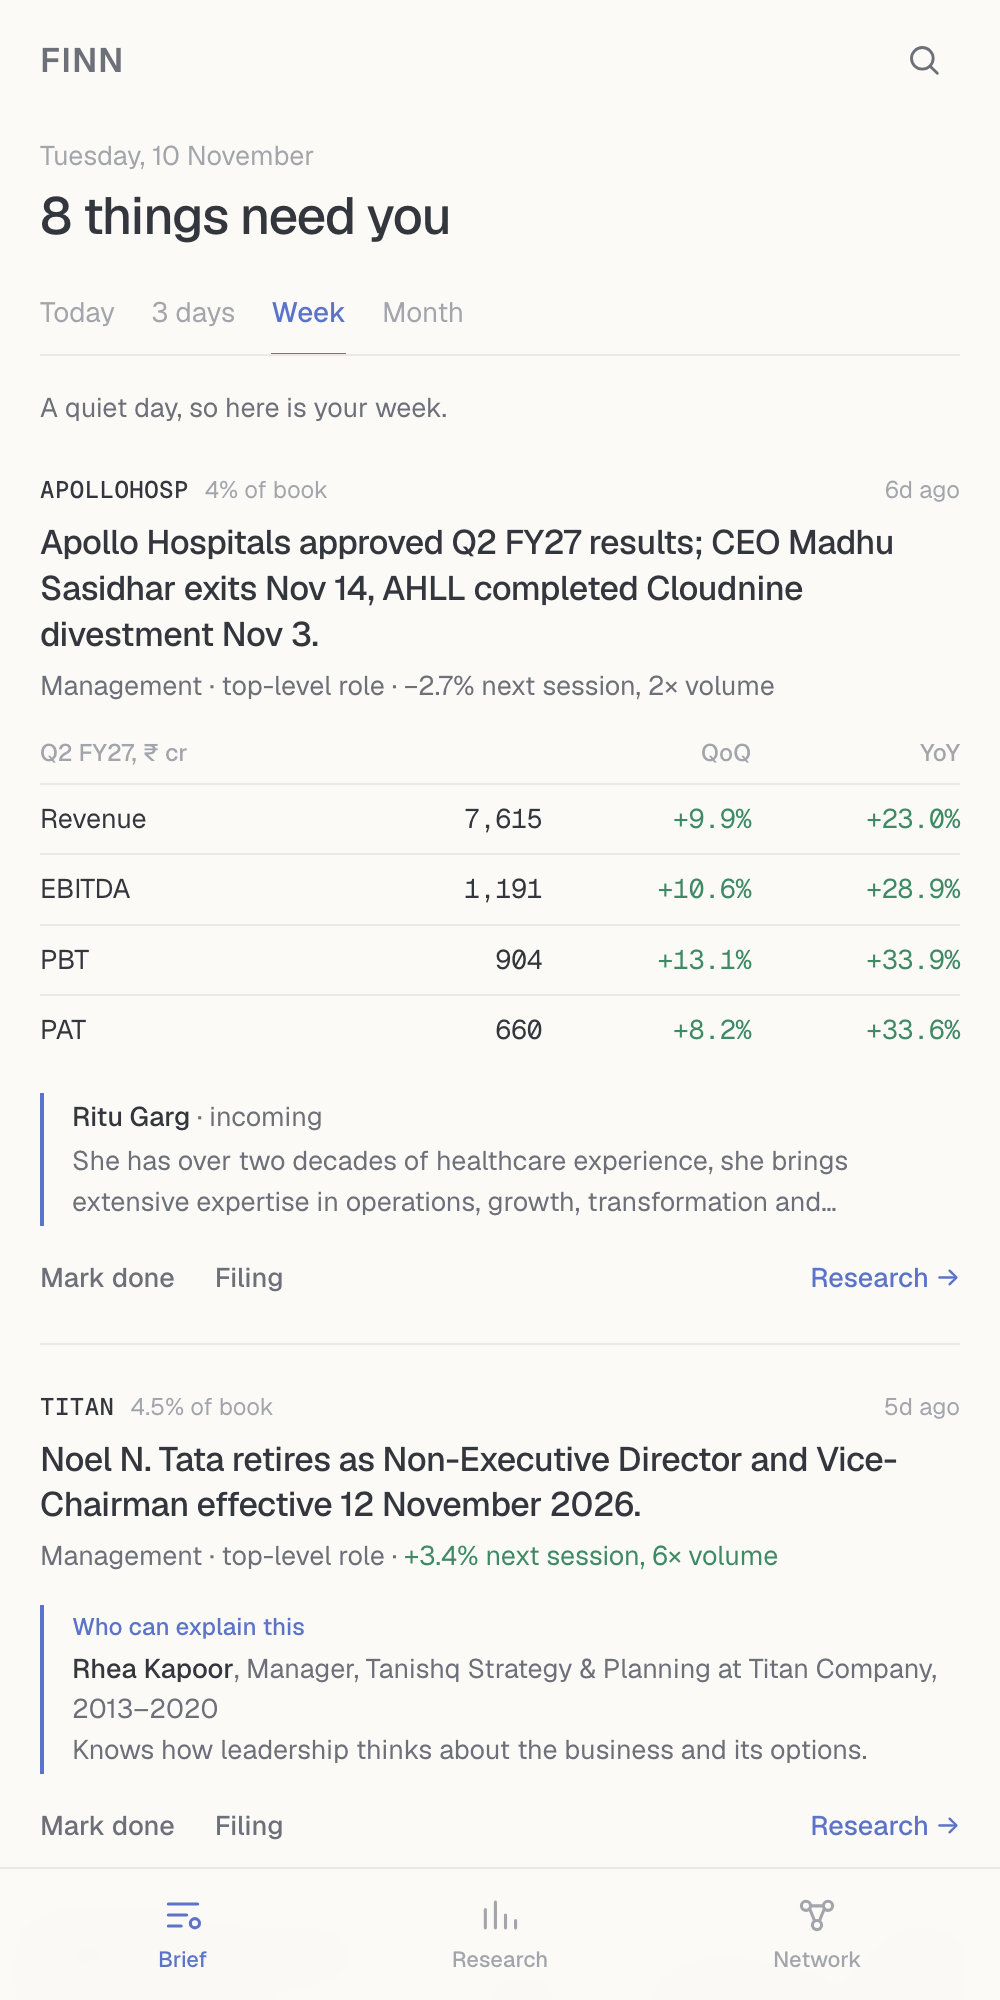
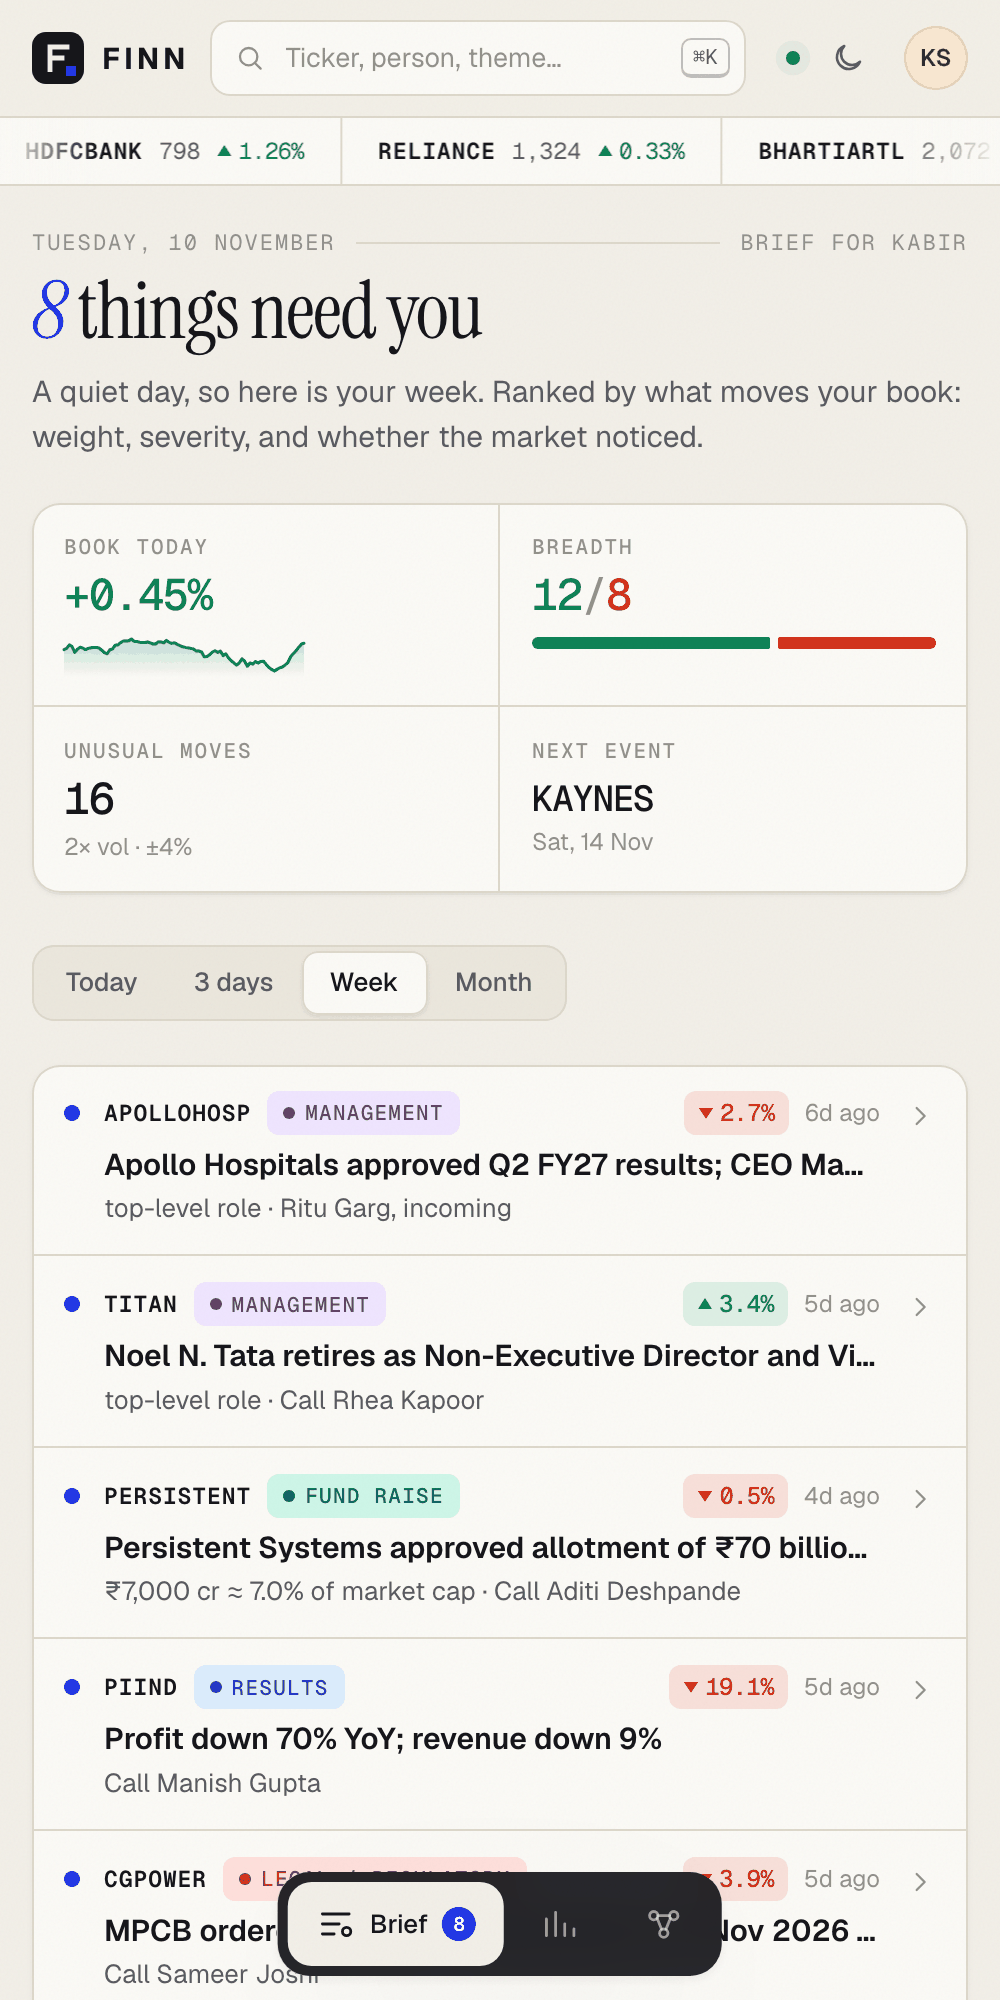
Refresh screenshots and update README for the new pages
- Retake brief, management, promises and network shots from the current app
- Add story, friends-to-call, portfolio and desktop shots
- Tour, push, network and privacy sections cover story pages, friends to call,
  the portfolio page (friends, journey, proof-backed edits) and About
- Test count 31 → 38; repo map lists the frontend screens

diff --git a/README.md b/README.md
@@ -12,10 +12,18 @@ named in this month's filings.
 - **Writeup for the covering email:** [docs/covering-note.md](docs/covering-note.md)
 
 <p align="center">
-  <img src="docs/screens/brief.png" width="24%" />
-  <img src="docs/screens/management.png" width="24%" />
-  <img src="docs/screens/promises.png" width="24%" />
-  <img src="docs/screens/network.png" width="24%" />
+  <img src="docs/screens/brief.png" width="24%" alt="Brief" />
+  <img src="docs/screens/story.png" width="24%" alt="A story with its price chart" />
+  <img src="docs/screens/promises.png" width="24%" alt="Promised vs delivered" />
+  <img src="docs/screens/friends.png" width="24%" alt="Friends to call" />
+</p>
+<p align="center">
+  <img src="docs/screens/management.png" width="24%" alt="Your way in to a new CEO" />
+  <img src="docs/screens/network.png" width="24%" alt="Network" />
+  <img src="docs/screens/portfolio.png" width="24%" alt="Portfolio" />
+</p>
+<p align="center">
+  <img src="docs/screens/desktop.png" width="98%" alt="Desktop: alerts and friends to call in the sidebar" />
 </p>
 
 ---
@@ -24,12 +32,15 @@ named in this month's filings.
 
 1. **Brief.** The last day was quiet, so FINN opens on the week: "8 things need you." Cards are ranked by materiality × position size, and each one shows how the stock reacted.
 2. **HDFC Bank: new MD & CEO** (switch to *Month*, or tap the first item under *Network → Noticed*). FINN reads the filing, attaches a verified profile of Anup Bagchi, and finds your way in: *Vikram Rao, your IIT batchmate, was at ICICI Securities 2011–16 while Bagchi ran it.*
-3. **PI Industries: results.** Revenue, EBITDA, PBT and PAT, QoQ and YoY, from the filing. The card also notes that *other income is 35% of PBT* and that the stock fell 19% on 30× volume the next session.
+3. **PI Industries: results.** Tap the card and it opens as its own page, led by an interactive price chart (hover or drag to read a day, 1M/3M/All, volume bars, the filing day marked). Below it: Revenue, EBITDA, PBT and PAT, QoQ and YoY, from the filing, a note that *other income is 35% of PBT*, and the −19% next session on 30× volume. *Back* returns you to the same place in the Brief.
 4. **CG Power: plant closure order.** *Call Sameer Joshi: he ran the Waluj plant 2013–20.* He's ranked first because the event names his site.
 5. **Research → Kaynes → Promised vs delivered.** Management credibility: **low**. They promised ≥ ₹4,000 cr FY26 revenue and delivered ₹3,626 cr; they promised positive operating cash and posted −₹600 cr. Every row links to the transcript page it came from.
 6. **Network.** What it noticed: paths to new directors, reasons to reconnect, a Kaynes trading-window caution, and themes you own with thin coverage.
 7. **Ask** (search icon, or `/`): "way in to Anup Bagchi", "who knows rural lending?", "who can explain Polycab?", or any ticker. Voice works on supported browsers.
 8. **Alerts** (tap the thresholds next to *Unusual moves* on the Brief). Drag the volume/price thresholds and watch the noise check update: how many alerts you would have had over the last 90 sessions.
+9. **Friends to call** (desktop sidebar, or *+N more* for the full list). Friends whose current or former employer just crossed your alert rules or filed something material: *Manish Gupta, ex-PI Industries: profit down 70%*. Current employees are tagged **insider**.
+10. **Portfolio** (tap your name, top right). Returns, sector mix and holdings flagged with open stories and alerts; **Friends** ranked by how often you actually talk, with a *due a call* flag when someone has gone quiet for longer than usual; your **Journey** of firms with the friends you overlapped with at each; and **Edit profile**, where every change needs a proof document.
+11. **About** (tap the FINN logo): the features on one page, with links into each.
 
 ---
 
@@ -77,6 +88,8 @@ One rule decides every pixel: **each block opens with its conclusion, and that c
 | **Signals** | End-of-day price and volume vs a 20-session average, against your thresholds. Each signal is linked to the filing that explains it, or flagged *"No filing explains this move"*, which is itself worth knowing. |
 | **Market reaction** | Every story shows the first session after the filing (after-close filings roll to the next day). |
 | **Compliance sense** | A company that filed "trading window closed until results" gets a caution: *don't call current insiders until 14 Nov.* Anyone currently employed at the company is tagged with a SEBI insider-trading reminder. |
+| **Story page** | Each story opens on its own page: an interactive price chart with the filing day marked, the results or the person, every filing in the story, and actions (mark done, filing, research). Deep-linkable. |
+| **Important alerts** | On wide screens the sidebar keeps the most important moves in view, ranked by move × position weight with unexplained moves boosted; the full list is one tap away. |
 
 ### Pull: ask it to dig in
 
@@ -96,6 +109,9 @@ Works for **any NSE ticker** screener.in covers. Not hard-wired: point it at a c
 - **Tie strength:** relationship type × recency (halves each year of silence) + frequency.
 - **Who should I call:** former insiders first (fresher is better), then competitors, value chain, and topical experts (lawyers for insolvency, ex-regulator for a pollution order, ECM banker for a QIP). Weighted by function fit for the event and your tie.
 - **Scenarios built:** second-degree paths to new executives; diligence on people (career, sources, paths); an expertise map with blind spots weighted by position size; going-cold contacts with a reason to call; a drafted note you can copy into WhatsApp; logging a call.
+- **Friends to call:** every contact's listed employers, current and former, are matched against this week's alerts and material stories. Ranked by the size of the move, whether a filing explains it, and your tie. Former staff rank as the safer call; current staff carry an insider tag.
+- **Friends by frequency:** on the portfolio page, contacts are ordered by conversations in the last 12 months, with their usual cadence and a *due a call* flag at more than 1.5× their normal gap.
+- **Your own journey:** the investor's firms and schools as a timeline, showing which contacts overlapped at each (same firm, or same group, labelled as such).
 
 ---
 
@@ -188,7 +204,8 @@ The network is the sensitive part, so it is designed as **one investor's private
 - **Consent.** The investor imports their own data (LinkedIn's member data export, calendar OAuth with read-only scope). Enriching a contact's profile beyond what the investor supplied would require that contact's consent or a licensed provider with a lawful basis under India's DPDP Act.
 - **Access control.** SSO with MFA, per-workspace roles (owner, analyst, read-only), audit logs on every network query and export. Production keys live in a secrets manager.
 - **Compliance by design.** Insider-trading cautions on current employees and trading windows are built into the product, not left to memory.
-- **In the prototype:** the network is fictional and ships as JSON; per-viewer state (cleared cards, thresholds, logged calls) stays in the browser's localStorage.
+- **In the prototype:** the network is fictional and ships as JSON; per-viewer state (cleared cards, thresholds, logged calls, profile edits) stays in the browser's localStorage.
+- **Profile edits need proof.** Changing your name needs a government ID; changing role or firm needs proof of employment. The prototype only fingerprints the document (SHA-256) in the browser and marks the change *verification pending*; the file itself is never uploaded. In production the document would go to a reviewer or an employment-verification provider, be kept only until verified, then deleted.
 
 ### Cloud: what runs where
 
@@ -242,7 +259,7 @@ cd frontend && npm install && npm run dev                  # http://localhost:51
 ```
 
 - With `LLM_API_KEY` (a free Gemini key from aistudio.google.com) set, new tickers get the model sections too; without it they render the computed sections and say what is missing.
-- Tests: `cd backend && ../.venv/bin/python -m pytest` (31 tests over the classifier, materiality, money parsing, results arithmetic, the overlap engine and the flags).
+- Tests: `cd backend && ../.venv/bin/pip install pytest && ../.venv/bin/python -m pytest` (38 tests over the classifier, materiality, money parsing, results arithmetic, the overlap engine and the flags).
 - Docker: `docker build -t finn . && docker run -p 8000:8000 finn`.
 
 ## Repository map
@@ -259,6 +276,8 @@ backend/tests/  deterministic core
 data/inputs/    portfolio + the investor's network (synthetic) + verified public profiles
 data/snapshot/  the JSON the app runs on · data/llm_cache.jsonl  every model answer, reusable
 frontend/src/   React + TypeScript, no UI kit, hand-built SVG charts
+  screens/      Brief, Story, Research/Dossier, Network, Portfolio, Inbox (all alerts), Alerts (rules), About
+  alertLists.ts one ranking for important alerts and friends to call, shared by sidebar and full page
 ```
 
 ## How this was built
